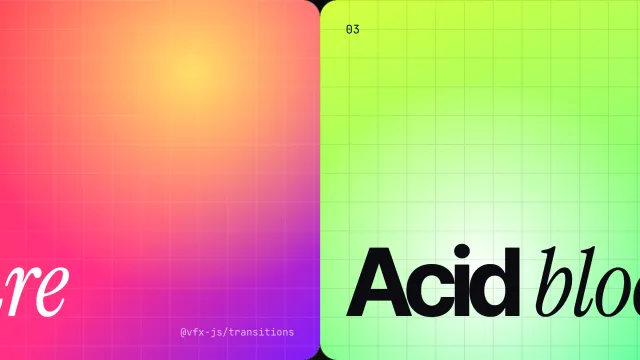
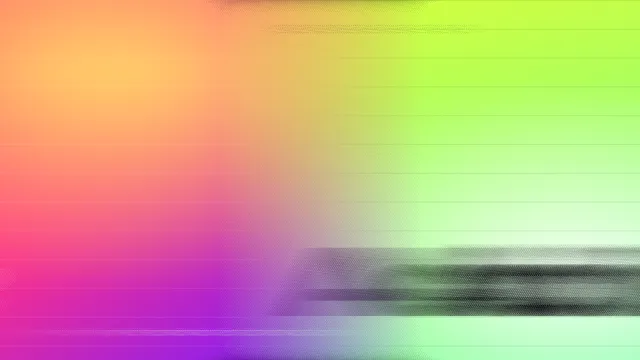
feat(transitions): swipe stretch and motion blur, smoother glitchSlide end
- swipe stretches along the move and blurs mid-way
- glitchSlide stripes ease out as they land

diff --git a/packages/transitions/src/swipe.ts b/packages/transitions/src/swipe.ts
@@ -1,4 +1,5 @@
 import { type ShaderTransitionDef, shaderTransition } from "@vfx-js/core";
+import { IGN } from "./_shared";
 
 export type SwipeDirection = "left" | "right" | "up" | "down";
 
@@ -10,7 +11,10 @@ const MOVES: Record<SwipeDirection, [number, number]> = {
     down: [0, -1],
 };
 
-/** The content moves toward `direction` and the new content follows it in. */
+/**
+ * The content moves toward `direction` and the new content follows it in.
+ * Mid-way it stretches along the move and blurs with the motion.
+ */
 export function createSwipe(
     opts: { direction?: SwipeDirection } = {},
 ): ShaderTransitionDef {
@@ -19,11 +23,30 @@ export function createSwipe(
         name: "swipe",
         frag: `
 const vec2 move = vec2(${x.toFixed(1)}, ${y.toFixed(1)});
+const float STRETCH = 0.6;
+const float BLUR = 0.2;
+const float TAPS = 16.0;
+
+${IGN}
+// The old and new content as one strip along the move.
+vec4 strip(vec2 p) {
+  return inRange(p) ? readFrom(p) : readTo(p + move);
+}
+
 vec4 transition(vec2 uv, float t) {
   // A container overflow must not show shifted content outside the element.
   if (!inRange(uv)) return vec4(0.0);
-  vec2 p = uv - move * t;
-  return inRange(p) ? readFrom(p) : readTo(p + move);
+  // Peaks halfway, when the content moves fastest.
+  float speed = sin(t * 3.141593);
+  vec2 scale = 1.0 + abs(move) * speed * STRETCH;
+  vec2 p = (uv - 0.5) / scale + 0.5 - move * t;
+  float jitter = ign(gl_FragCoord.xy);
+  vec4 c = vec4(0.0);
+  for (float i = 0.0; i < TAPS; i += 1.0) {
+    float k = (i + jitter) / TAPS - 0.5;
+    c += strip(p + move * k * speed * BLUR);
+  }
+  return c / TAPS;
 }
 `,
     });

diff --git a/packages/transitions/src/glitch-slide.ts b/packages/transitions/src/glitch-slide.ts
@@ -6,6 +6,12 @@ export const glitchSlide: ShaderTransitionDef = shaderTransition({
     name: "glitch_slide",
     frag: `
 ${SPLIT_READ}
+// Each stripe slows down as it lands, so the end does not snap.
+float shift(float x) {
+  x = clamp(x, 0.0, 1.0);
+  return 1.0 - (1.0 - x) * (1.0 - x);
+}
+
 vec4 transition(vec2 uv, float t) {
   // A container overflow must not show wrapped content outside the element.
   if (!inRange(uv)) return vec4(0.0);
@@ -15,9 +21,9 @@ vec4 transition(vec2 uv, float t) {
   // Fade the shift in over the first 5% so the start matches the idle content.
   float k = min(t * 20.0, 1.0);
   vec2 uvr = uv, uvg = uv, uvb = uv;
-  uvr.x = fract(uvr.x + clamp(t * 1.8 - n * 0.2 - 0.1, 0.0, 1.0) * k);
-  uvg.x = fract(uvg.x + clamp(t * 1.8 - n * 0.2, 0.0, 1.0) * k);
-  uvb.x = fract(uvb.x + clamp(t * 1.8 - n * 0.2 + 0.1, 0.0, 1.0) * k);
+  uvr.x = fract(uvr.x + shift(t * 1.8 - n * 0.2 - 0.1) * k);
+  uvg.x = fract(uvg.x + shift(t * 1.8 - n * 0.2) * k);
+  uvb.x = fract(uvb.x + shift(t * 1.8 - n * 0.2 + 0.1) * k);
 
   vec4 c1 = splitRead(uvr, uvg, uvb, false);
   vec4 c2 = splitRead(uvr, uvg, uvb, true);
